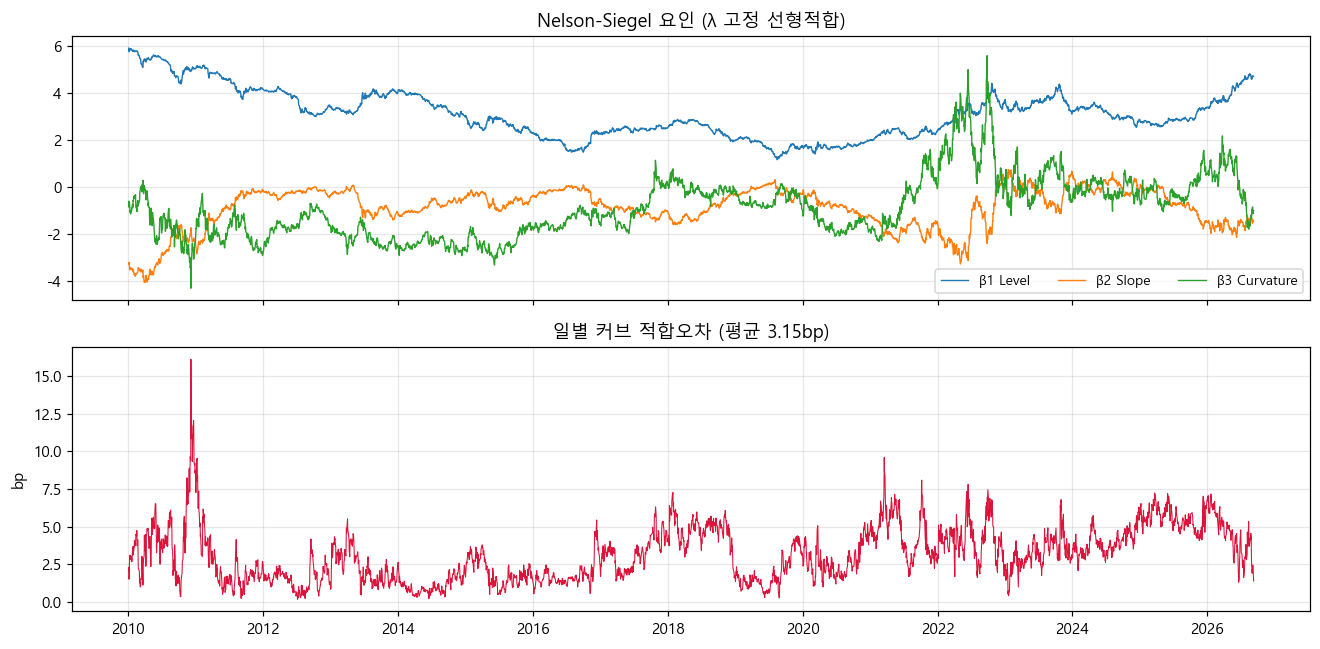
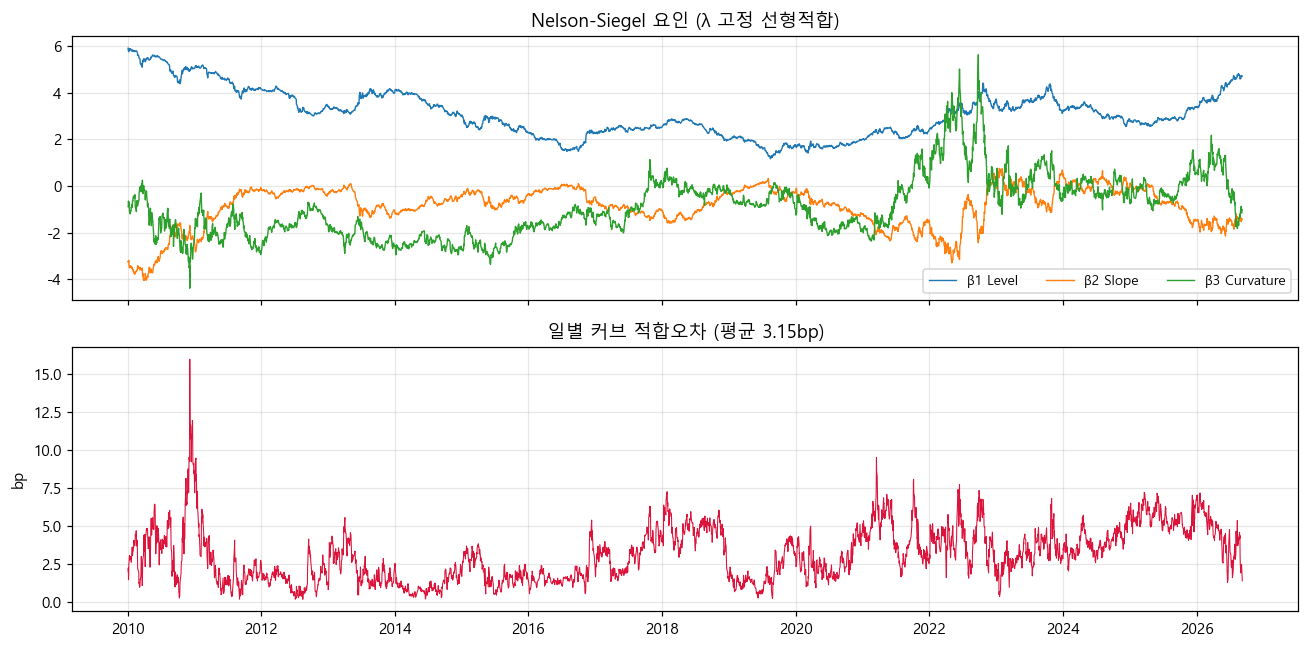
감마선택, 수준 카드, requirements 정리

diff --git a/app/dashboard.py b/app/dashboard.py
@@ -131,7 +131,7 @@ with t1:
                                  name=f"{lbl} ({dt:%y-%m-%d})"))
     fig.update_layout(title="국고채 일드커브", xaxis_title="만기(년)",
                       yaxis_title="수익률(%)", height=420)
-    col1.plotly_chart(fig, use_container_width=True)
+    col1.plotly_chart(fig, width="stretch")
 
     col2.markdown("**Nelson-Siegel 요인 (현재)**")
     ns = factors.iloc[-1]
@@ -146,7 +146,7 @@ with t1:
                    ("beta3_curv", "β3 Curvature")]:
         f2.add_trace(go.Scatter(x=factors.index, y=factors[c_], name=nm, line=dict(width=1)))
     f2.update_layout(title="NS 요인 시계열", height=340)
-    st.plotly_chart(f2, use_container_width=True)
+    st.plotly_chart(f2, width="stretch")
 
 with t2:
     st.markdown("#### 금리커브 전망: 수준·기울기·곡률")
@@ -193,10 +193,11 @@ with t2:
         slp_f = contrib[j[10.0], 1] - contrib[j[3.0], 1]
         cur_f = 2 * contrib[j[3.0], 2] - contrib[j[1.0], 2] - contrib[j[10.0], 2]
         k1, k2, k3 = st.columns(3)
-        k1.metric("수준 · 전 구간 평행이동",
+        k1.metric("수준 · 전 구간 평행이동 (참고용)",
                   "금리 상승(약세)" if lvl_f > 0 else "금리 하락(강세)",
-                  f"{lvl_f:+.1f}bp", delta_color="inverse")
-        k1.caption(f"모든 만기를 같은 폭으로 움직이는 부분 · 방향 적중 {hit['수준']:.0f}%")
+                  f"{lvl_f:+.1f}bp", delta_color="off")
+        k1.caption(f":gray[모든 만기를 같은 폭으로 움직이는 부분 · 방향 적중 {hit['수준']:.0f}%]  \n"
+                   ":red[예측력 없음: 무작위(50%)와 구별되지 않아 참고용으로만 본다]")
         k2.metric("기울기 · 3s10s 스프레드",
                   "스티프닝" if slp_f > 0 else "플래트닝",
                   f"{slp_f:+.1f}bp", delta_color="off")
@@ -222,7 +223,7 @@ with t2:
         fz.update_layout(barmode="relative", height=400, yaxis_title="금리 변화(bp)",
                          title=f"만기별 {h}영업일 금리 변화 예측 (요인별 분해)",
                          legend=dict(orientation="h", y=-0.15))
-        st.plotly_chart(fz, use_container_width=True)
+        st.plotly_chart(fz, width="stretch")
         st.caption(f"+는 금리 상승(채권 가격 하락). NS 곡률 요인은 {1.7933 / D['lam']:.1f}년 "
                    "근처에서 가장 크게 움직여 3-5-10이 아닌 1-3-10 버터플라이로 쟀다. "
                    "요인별 예측을 합치면 신호가 뒤집힐 수 있어 매매 신호는 아래 직접 예측 모델을 쓴다.")
@@ -236,7 +237,7 @@ with t2:
         st.dataframe(m.style.format({"RW RMSE(bp)": "{:.2f}", "모델 RMSE(bp)": "{:.2f}",
                                      "개선율(%)": "{:+.2f}", "방향정확도(%)": "{:.1f}"})
                      .background_gradient(subset=["개선율(%)"], cmap="RdYlGn"),
-                     use_container_width=True, hide_index=True)
+                     width="stretch", hide_index=True)
         st.caption("20영업일 예측. 단기물에서만 RW를 유의하게 이기고, 장기물은 이기지 못한다.")
 
     st.markdown("#### 전략 후보 선별")
@@ -255,7 +256,7 @@ with t2:
     if rows:
         st.dataframe(pd.DataFrame(rows).style.format(
             {"corr": "{:+.3f}", "방향정확도(%)": "{:.1f}", "RW대비 RMSE(%)": "{:+.2f}"}),
-            use_container_width=True, hide_index=True)
+            width="stretch", hide_index=True)
 
     if D["bt"] is not None:
         st.markdown("#### 버터플라이 백테스트 — 거래비용 스트레스")
@@ -266,7 +267,7 @@ with t2:
                                     mode="lines+markers", name=f"비용 {cx:.0f}배"))
         f3.add_hline(y=0, line_dash="dash", line_color="gray")
         f3.update_layout(xaxis_title="신호 임계 분위수", yaxis_title="Sharpe", height=380)
-        st.plotly_chart(f3, use_container_width=True)
+        st.plotly_chart(f3, width="stretch")
         st.warning("비용 1배에서만 양(+)의 Sharpe가 나오고 2배부터 손실이다. "
                    "**비용 가정 민감도가 지나치게 높아 운용 신호로 채택하지 않는다.**")
 
@@ -285,14 +286,14 @@ with t3:
                          line_color="crimson" if r["actual"] == "인상" else "royalblue")
         f4.update_layout(title="금통위 결정 확률 (walk-forward, 점선=실제 변경)",
                          yaxis_title="확률", height=420)
-        st.plotly_chart(f4, use_container_width=True)
+        st.plotly_chart(f4, width="stretch")
 
         st.markdown("#### 최근 10회")
         t = p.tail(10)[["meeting_date", "actual", "p_인하", "p_동결", "p_인상"]].copy()
         t["meeting_date"] = t["meeting_date"].dt.strftime("%Y-%m-%d")
         t.columns = ["회의일", "실제", "인하", "동결", "인상"]
         st.dataframe(t.style.format({"인하": "{:.1%}", "동결": "{:.1%}", "인상": "{:.1%}"}),
-                     use_container_width=True, hide_index=True)
+                     width="stretch", hide_index=True)
         st.caption("한국은행 문서(결정문·의사록)를 사용하지 않은 시장가격 기반 모델이다. "
                    "NLP·LLM 결합은 확장 과제.")
 
@@ -303,13 +304,13 @@ with t4:
         f5.add_trace(go.Scatter(x=panel.index, y=panel[c_], name=lbl,
                                 line=dict(width=1)))
         f5.update_layout(title=f"{lbl} 크레딧 스프레드", yaxis_title="bp", height=340)
-        col.plotly_chart(f5, use_container_width=True)
+        col.plotly_chart(f5, width="stretch")
         z_ = ((panel[c_] - panel[c_].rolling(250).mean())
               / panel[c_].rolling(250).std()).iloc[-1]
         col.metric(f"{lbl} 현재", f"{panel[c_].iloc[-1]:.1f}bp", f"z={z_:+.2f}")
 
     if D["credit"] is not None:
-        st.dataframe(D["credit"], use_container_width=True, hide_index=True)
+        st.dataframe(D["credit"], width="stretch", hide_index=True)
     st.caption("ECOS 공개데이터에 등급×만기 매트릭스가 없어 2개 버킷만 다룬다. "
                "ECM 오차수정계수가 양수로 나와 20일 시계에서는 평균회귀보다 모멘텀이 우세했다.")
 
@@ -322,6 +323,6 @@ with t5:
                 for c in panel.columns],
     })
     st.dataframe(info.style.format({"결측률(%)": "{:.2f}", "최신값": "{:.3f}"}),
-                 use_container_width=True, hide_index=True, height=420)
+                 width="stretch", hide_index=True, height=420)
     st.caption(f"기간 {panel.index[0]:%Y-%m-%d} ~ {asof:%Y-%m-%d} · "
                f"{len(panel):,}행 × {panel.shape[1]}열 · 출처 한국은행 ECOS")

diff --git a/src/features/nelson_siegel.py b/src/features/nelson_siegel.py
@@ -3,7 +3,7 @@
 핵심 설계 (계획 Block 2-1)
 - lambda를 고정하면 loading이 상수가 되어 beta1/2/3는 '선형' 최소제곱으로 풀린다.
   매일 비선형 최적화를 돌리지 않으므로 4,000일 적합이 초 단위로 끝나고 발산 위험도 없다.
-- lambda는 전체 표본 SSE를 최소화하는 값을 그리드서치로 한 번 정해 고정한다.
+- lambda는 봉인 구간(마지막 2년)을 뺀 학습 구간의 적합 오차로 그리드서치해 한 번 정해 고정한다.
 - 만기별 관측 가능 여부가 날마다 다르다(2년물 2021~, 30년물 2012~).
   따라서 매일 '그날 관측된 만기만' 써서 적합한다. 최소 4개 만기 필요.
 """
@@ -82,7 +82,7 @@ def fit_all(panel: pd.DataFrame, lam: float) -> pd.DataFrame:
 
 
 def choose_lambda(panel: pd.DataFrame, grid: np.ndarray | None = None) -> tuple[float, pd.DataFrame]:
-    """전체 표본 평균 적합 RMSE를 최소화하는 lambda 선택."""
+    """넘겨받은 표본의 평균 적합 RMSE를 최소화하는 lambda 선택."""
     if grid is None:
         grid = np.arange(0.20, 0.85, 0.01)
     rows = []
@@ -109,7 +109,8 @@ if __name__ == "__main__":
     panel = pd.read_parquet(PROC / "panel.parquet")
 
     print("[1] lambda 그리드서치")
-    lam, tab = choose_lambda(panel)
+    cutoff = panel.index.max() - pd.DateOffset(years=2)      # 봉인 구간은 lambda 선택에도 쓰지 않는다
+    lam, tab = choose_lambda(panel.loc[:cutoff])
     print(tab.iloc[(tab["mean_rmse_bp"]).argsort()[:5]].to_string(index=False))
     print(f"\n선택된 lambda = {lam:.2f}")
     print(f"  -> 곡률 로딩 최대 만기 ~= {1.7933 / lam:.2f}년\n")

diff --git a/src/backtest/curve_strategy.py b/src/backtest/curve_strategy.py
@@ -2,7 +2,7 @@
 
 전략 선택 근거 (진단 결과)
 - 3s10s 슬로프는 이 표본에서 예측력이 없다(corr +0.040, 방향 47.9%). 따라서 매매하지 않는다.
-- 3-5-10 버터플라이는 RW를 이긴다(corr +0.438, 방향 63.3%, RW 대비 RMSE +10.1%).
+- 3-5-10 버터플라이는 RW를 이긴다(corr +0.439, 방향 63.3%, RW 대비 RMSE +10.1%).
   단, 겹치지 않는 20일 구간 기준 24개 중 14개 적중(p=0.27)이라 유의하지 않다.
   NS 곡률 요인은 2.2년 만기에서 가장 크게 움직여 3-5-10 버터플라이와 직접 대응하지 않는다.
 - 두 전략을 모두 백테스트해 '예측력 있는 쪽만 거래한다'는 판단 과정을 남긴다.

diff --git a/src/models/credit_model.py b/src/models/credit_model.py
@@ -6,7 +6,7 @@
 
 모델 (기획서 5.4)
 1. ECM  : 스프레드가 장기평균에서 벌어진 정도가 되돌아오는지 (오차수정항)
-2. Elastic Net / XGBoost : 20일 변화 방향
+2. Elastic Net : 20일 변화 방향
 3. 급확대 이진분류 : 20일 변화 > 롤링 90분위  (class_weight 사용, SMOTE 금지)
    -> 시계열 구조를 훼손하지 않기 위해 합성 오버샘플링은 쓰지 않는다(기획서 5.4).
 4. 평가 : 불균형이므로 정확도가 아니라 PR-AUC / Recall / Precision / Brier

diff --git a/reports/research_note.md b/reports/research_note.md
@@ -1,7 +1,7 @@
 # K-FI Quant Lab — 리서치 노트
 
 - 기준일: **2026-09-08** (데이터 최신 영업일)
-- 생성일: 2026-11-08 (본 노트는 코드로 자동 생성됨)
+- 생성일: 2026-11-09 (본 노트는 코드로 자동 생성됨)
 - 표본: 2010-01-04 ~ 2026-09-08, 4,123영업일
 - 데이터: 한국은행 ECOS 오픈API (국고채·회사채·단기금리·기준금리)
 
@@ -20,7 +20,7 @@
 | AA- 3년 스프레드 | +67.4bp |
 | BBB- 3년 스프레드 | +648.1bp |
 
-NS 요인: Level 4.713 / Slope -1.445 / Curvature -0.995 (적합오차 1.38bp)
+NS 요인: Level 4.713 / Slope -1.438 / Curvature -1.022 (적합오차 1.42bp)
 
 ## 2. 모듈 1 — 일드커브 (Nelson-Siegel)
 
@@ -31,13 +31,13 @@ NS 요인: Level 4.713 / Slope -1.445 / Curvature -0.995 (적합오차 1.38bp)
 
 | 만기 | RW RMSE | 모델 RMSE | 개선율 | 방향정확도 |
 |---|---|---|---|---|
-| 1y | 11.49bp | 9.43bp | **+17.92%** | 76.4% |
-| 2y | 14.91bp | 14.23bp | **+4.60%** | 60.1% |
-| 3y | 16.69bp | 16.29bp | **+2.42%** | 62.0% |
-| 5y | 17.36bp | 17.22bp | **+0.85%** | 58.6% |
-| 10y | 17.50bp | 17.69bp | **-1.08%** | 51.7% |
-| 20y | 17.95bp | 18.36bp | **-2.26%** | 49.6% |
-| 30y | 18.19bp | 18.67bp | **-2.64%** | 49.6% |
+| 1y | 11.48bp | 9.42bp | **+17.93%** | 76.4% |
+| 2y | 14.93bp | 14.26bp | **+4.52%** | 60.7% |
+| 3y | 16.70bp | 16.31bp | **+2.37%** | 62.4% |
+| 5y | 17.35bp | 17.21bp | **+0.78%** | 56.9% |
+| 10y | 17.49bp | 17.71bp | **-1.22%** | 51.3% |
+| 20y | 17.95bp | 18.39bp | **-2.44%** | 49.8% |
+| 30y | 18.19bp | 18.71bp | **-2.84%** | 50.0% |
 
 **핵심:** 단기물(1y)에서만 RW를 유의하게 이긴다(+17.9%, 방향 76.4%). 장기물은 RW를 이기지 못한다.
 
@@ -49,8 +49,8 @@ NS 요인: Level 4.713 / Slope -1.445 / Curvature -0.995 (적합오차 1.38bp)
 
 | 전략 | corr | 방향정확도 | RW 대비 RMSE | 판정 |
 |---|---|---|---|---|
-| 3s10s 슬로프 | +0.040 | 47.9% | -3.18% | **거래 안 함** |
-| 3-5-10 버터플라이 | +0.438 | 63.3% | +10.09% | 거래 |
+| 3s10s 슬로프 | +0.040 | 47.9% | -3.17% | **거래 안 함** |
+| 3-5-10 버터플라이 | +0.439 | 63.3% | +10.13% | 거래 |
 
 > 슬로프는 예측력이 없어 매매 대상에서 제외하고 버터플라이만 백테스트한다. 다만 20일 예측이 매일 겹쳐 독립 표본이 적다. 겹치지 않는 20일 구간만 세면 버터플라이는 24개 중 14개 적중(이항검정 p=0.27)으로 통계적으로 유의하지 않다.
 
@@ -61,20 +61,20 @@ NS 요인: Level 4.713 / Slope -1.445 / Curvature -0.995 (적합오차 1.38bp)
 | 0.0 | 1x | 466 | -0.63% | -1.17 | -1.41% | 30.7% |
 | 0.0 | 2x | 466 | -1.73% | -3.24 | -3.30% | 13.3% |
 | 0.0 | 3x | 466 | -2.84% | -5.31 | -5.32% | 3.9% |
-| 0.5 | 1x | 240 | -0.10% | -0.29 | -0.52% | 42.1% |
-| 0.5 | 2x | 240 | -0.67% | -1.94 | -1.29% | 17.1% |
-| 0.5 | 3x | 240 | -1.24% | -3.52 | -2.36% | 5.8% |
-| 0.7 | 1x | 147 | +0.05% | +0.21 | -0.27% | 49.7% |
-| 0.7 | 2x | 147 | -0.30% | -1.20 | -0.64% | 23.1% |
-| 0.7 | 3x | 147 | -0.65% | -2.52 | -1.24% | 8.8% |
+| 0.5 | 1x | 242 | -0.10% | -0.29 | -0.51% | 42.1% |
+| 0.5 | 2x | 242 | -0.67% | -1.95 | -1.30% | 17.4% |
+| 0.5 | 3x | 242 | -1.25% | -3.54 | -2.38% | 5.8% |
+| 0.7 | 1x | 148 | +0.05% | +0.22 | -0.27% | 50.0% |
+| 0.7 | 2x | 148 | -0.30% | -1.20 | -0.64% | 23.0% |
+| 0.7 | 3x | 148 | -0.65% | -2.53 | -1.24% | 8.8% |
 | 0.8 | 1x | 96 | +0.07% | +0.41 | -0.17% | 53.1% |
 | 0.8 | 2x | 96 | -0.16% | -0.92 | -0.36% | 26.0% |
 | 0.8 | 3x | 96 | -0.39% | -2.14 | -0.74% | 11.5% |
-| 0.9 | 1x | 52 | +0.07% | +0.55 | -0.14% | 50.0% |
-| 0.9 | 2x | 52 | -0.06% | -0.46 | -0.20% | 34.6% |
-| 0.9 | 3x | 52 | -0.18% | -1.39 | -0.40% | 21.2% |
+| 0.9 | 1x | 53 | +0.07% | +0.57 | -0.14% | 50.9% |
+| 0.9 | 2x | 53 | -0.06% | -0.46 | -0.20% | 34.0% |
+| 0.9 | 3x | 53 | -0.18% | -1.41 | -0.41% | 20.8% |
 
-**결론:** 비용 1배에서는 선별매매 시 Sharpe 0.55(분위 0.9, 거래 52회)까지 나오지만, **비용 2배에서는 모든 설정이 손실**이다.
+**결론:** 비용 1배에서는 선별매매 시 Sharpe 0.57(분위 0.9, 거래 53회)까지 나오지만, **비용 2배에서는 모든 설정이 손실**이다.
 
 > 기획서 2.4 원칙에 따라, 방향 적중률(63.3%)이 50%를 넘어도 비용 차감 후 경제적 가치가 확인되지 않으면 운용 신호로 채택하지 않는다. 이 전략은 **비용 가정에 대한 민감도가 지나치게 높다**는 것이 결론이다.
 

diff --git a/README.md b/README.md
@@ -85,7 +85,7 @@ y(τ) = β₁ + β₂·(1-e^(-λτ))/(λτ) + β₃·[(1-e^(-λτ))/(λτ) - e^(
 
 **λ를 고정하면 β는 선형최소제곱으로 해석적으로 풀린다.** 매일 비선형 최적화를 돌리지 않으므로
 4,123일 적합이 초 단위로 끝나고 발산 위험도 구조적으로 없다.
-λ는 전체 표본 SSE 최소값(**0.82**, 곡률 로딩 최대 만기 2.19년)으로 고정했다.
+λ는 봉인 구간(마지막 2년)을 뺀 학습 구간의 적합 오차 최소값(**0.83**, 곡률 로딩 최대 만기 2.16년)으로 고정했다.
 
 - 적합 결과: **평균 오차 3.15bp**, 전 4,123일 적합 성공
 - PCA 교차검증: PC1 설명력 95.6%
@@ -111,7 +111,7 @@ y(τ) = β₁ + β₂·(1-e^(-λτ))/(λτ) + β₃·[(1-e^(-λτ))/(λτ) - e^(
 | 전략 | corr | 방향정확도 | RW 대비 RMSE | 판정 |
 |---|---|---|---|---|
 | 3s10s 슬로프 | +0.040 | 47.9% | −3.18% | **거래 안 함** |
-| 3-5-10 버터플라이 | **+0.438** | **63.3%** | **+10.09%** | 거래 |
+| 3-5-10 버터플라이 | **+0.439** | **63.3%** | **+10.13%** | 거래 |
 
 모든 walk-forward는 i시점에 정답이 확정된 행(i−20까지)만 학습한다
 ([`src/models/walkforward.py`](src/models/walkforward.py)). 이전 버전은 마지막 20행의 미래 정보가 학습에 섞였다.
@@ -129,9 +129,9 @@ y(τ) = β₁ + β₂·(1-e^(-λτ))/(λτ) + β₃·[(1-e^(-λτ))/(λτ) - e^(
 |---|---|---|---|
 | 0.0 (전량) | Sharpe −1.17 | −3.24 | −5.31 |
 | 0.7 | +0.21 | −1.20 | −2.52 |
-| 0.9 (선별) | **+0.55** | **−0.46** | −1.39 |
+| 0.9 (선별) | **+0.57** | **−0.46** | −1.39 |
 
-선별할수록 성과가 단조 개선되지만 비용 1배에서도 Sharpe 0.55에 그치고 **비용 2배를 넘기지 못한다.**
+선별할수록 성과가 단조 개선되지만 비용 1배에서도 Sharpe 0.57에 그치고 **비용 2배를 넘기지 못한다.**
 이것이 이 전략을 채택하지 않은 이유다.
 
 이전 버전은 20일 보유손익을 진입일 하루 수익처럼 연율화해 Sharpe 크기를 부풀렸고(선별 +2.14, 전량 −5.87),
